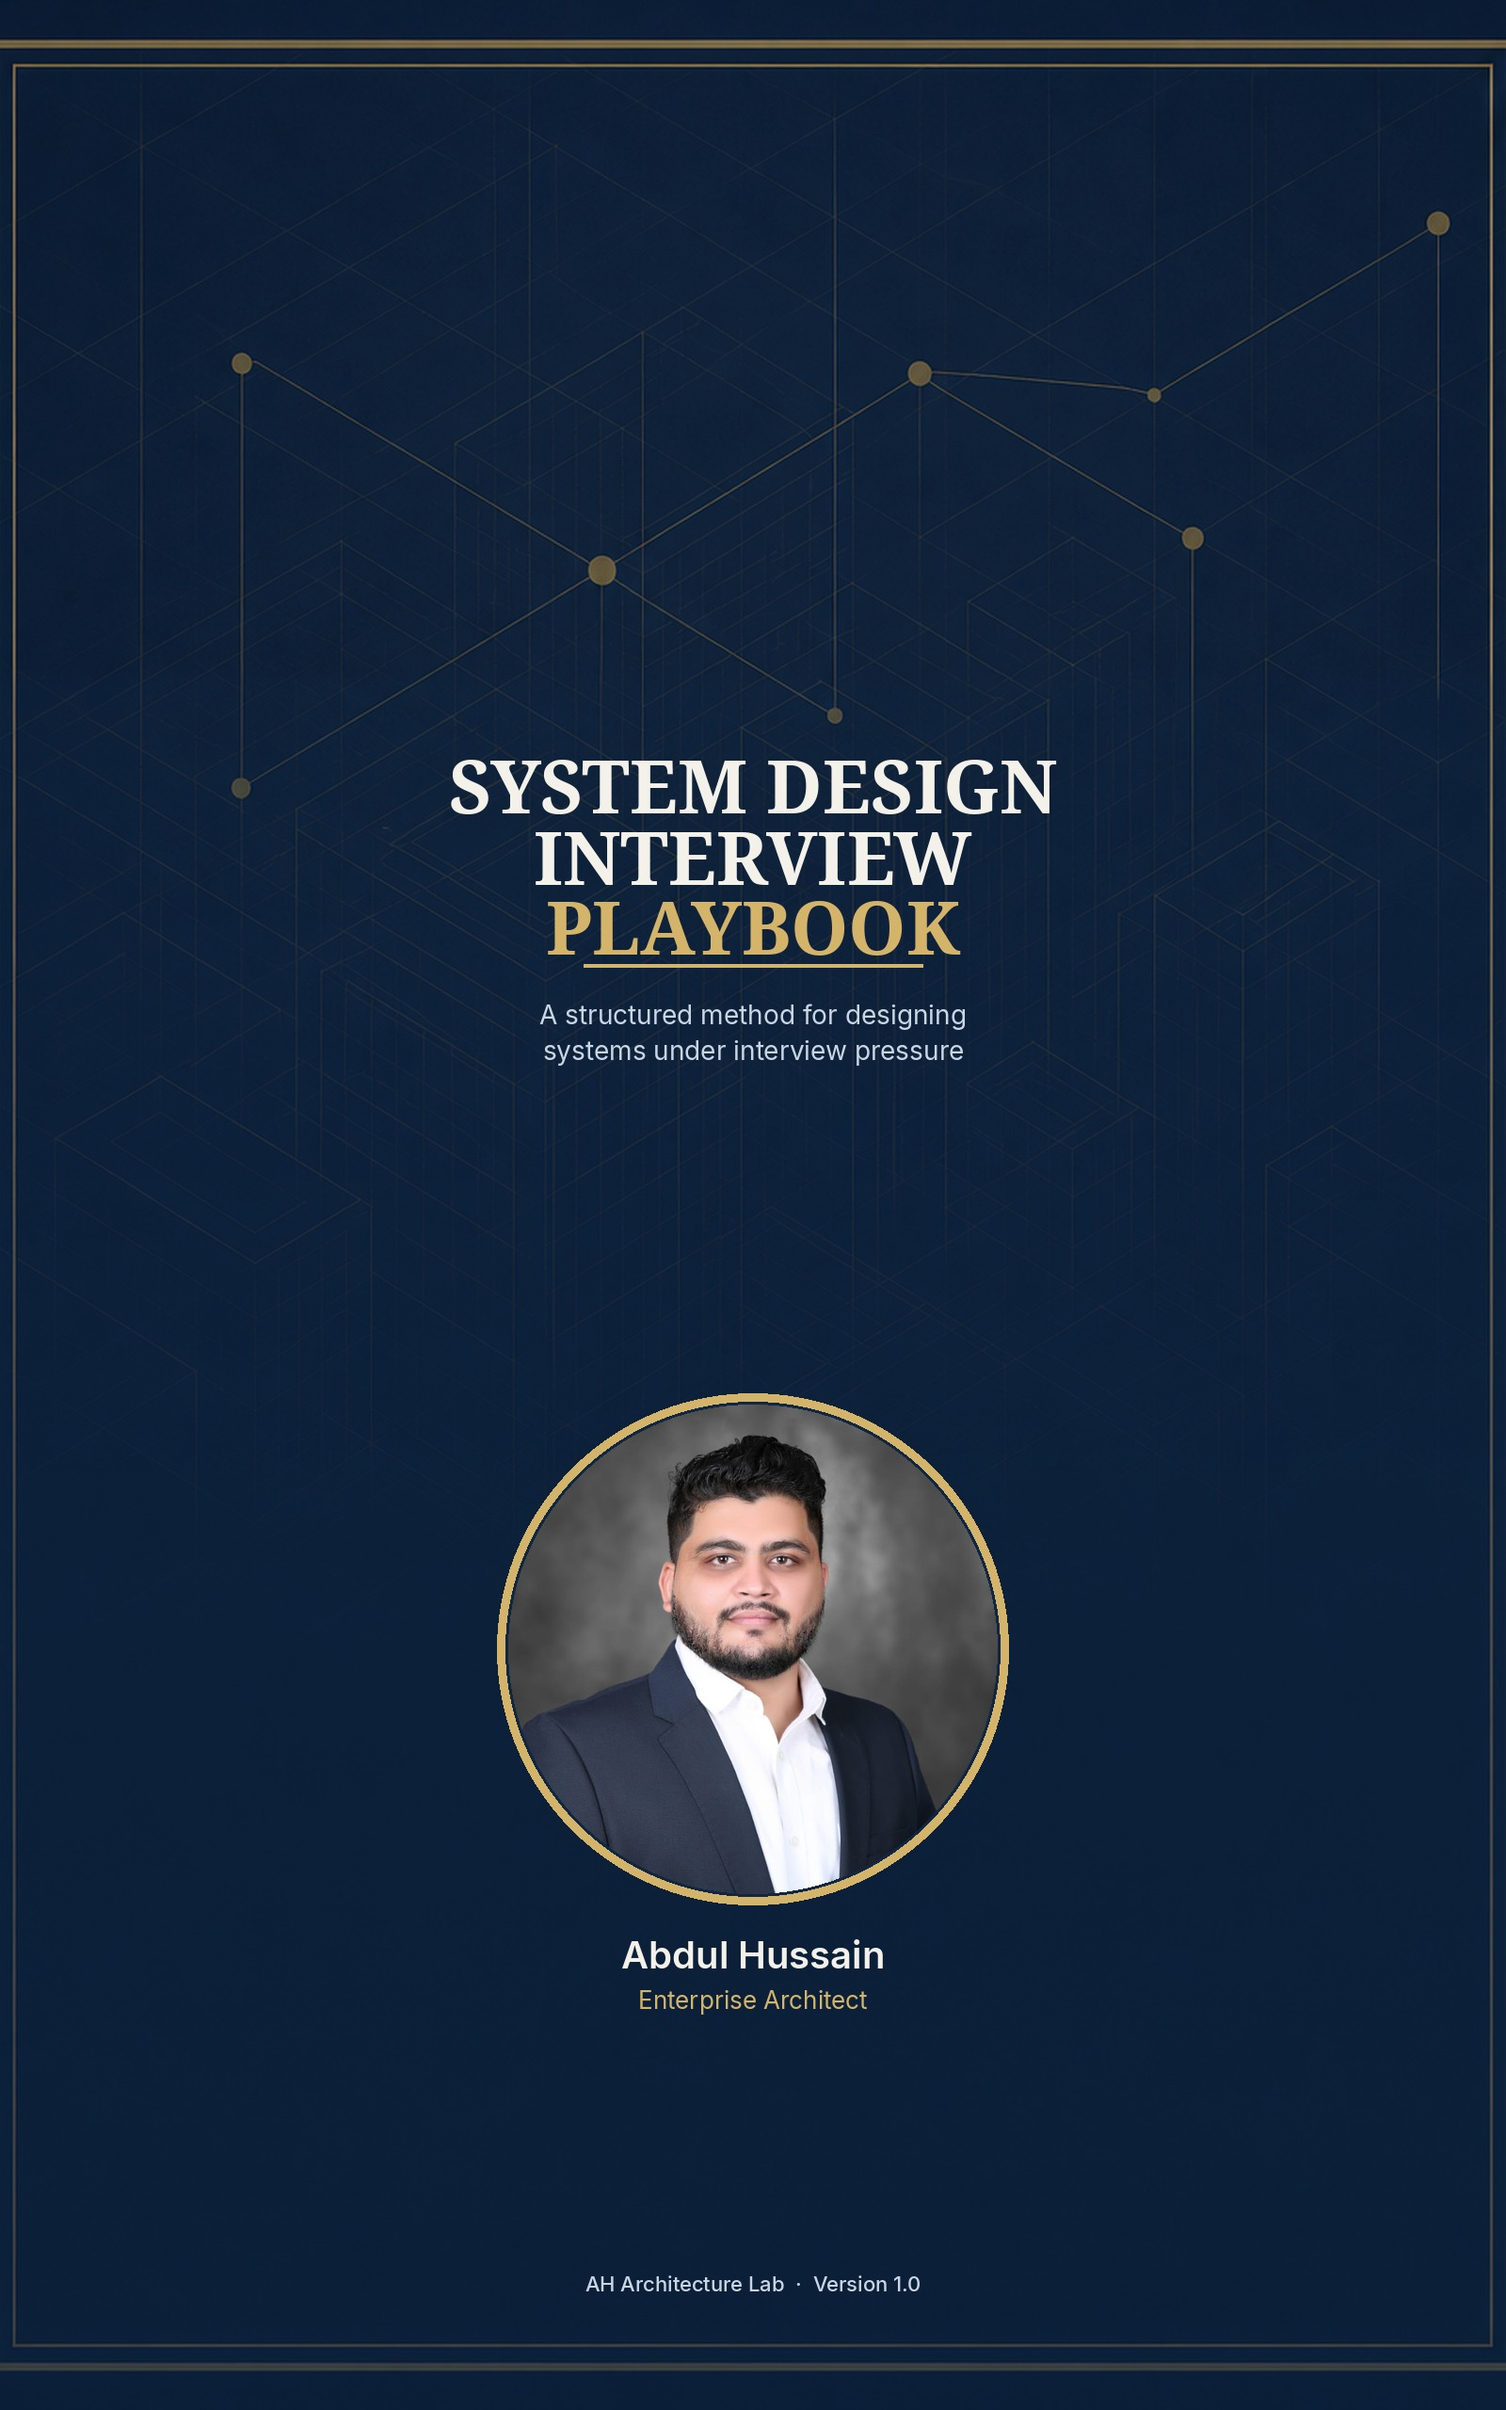
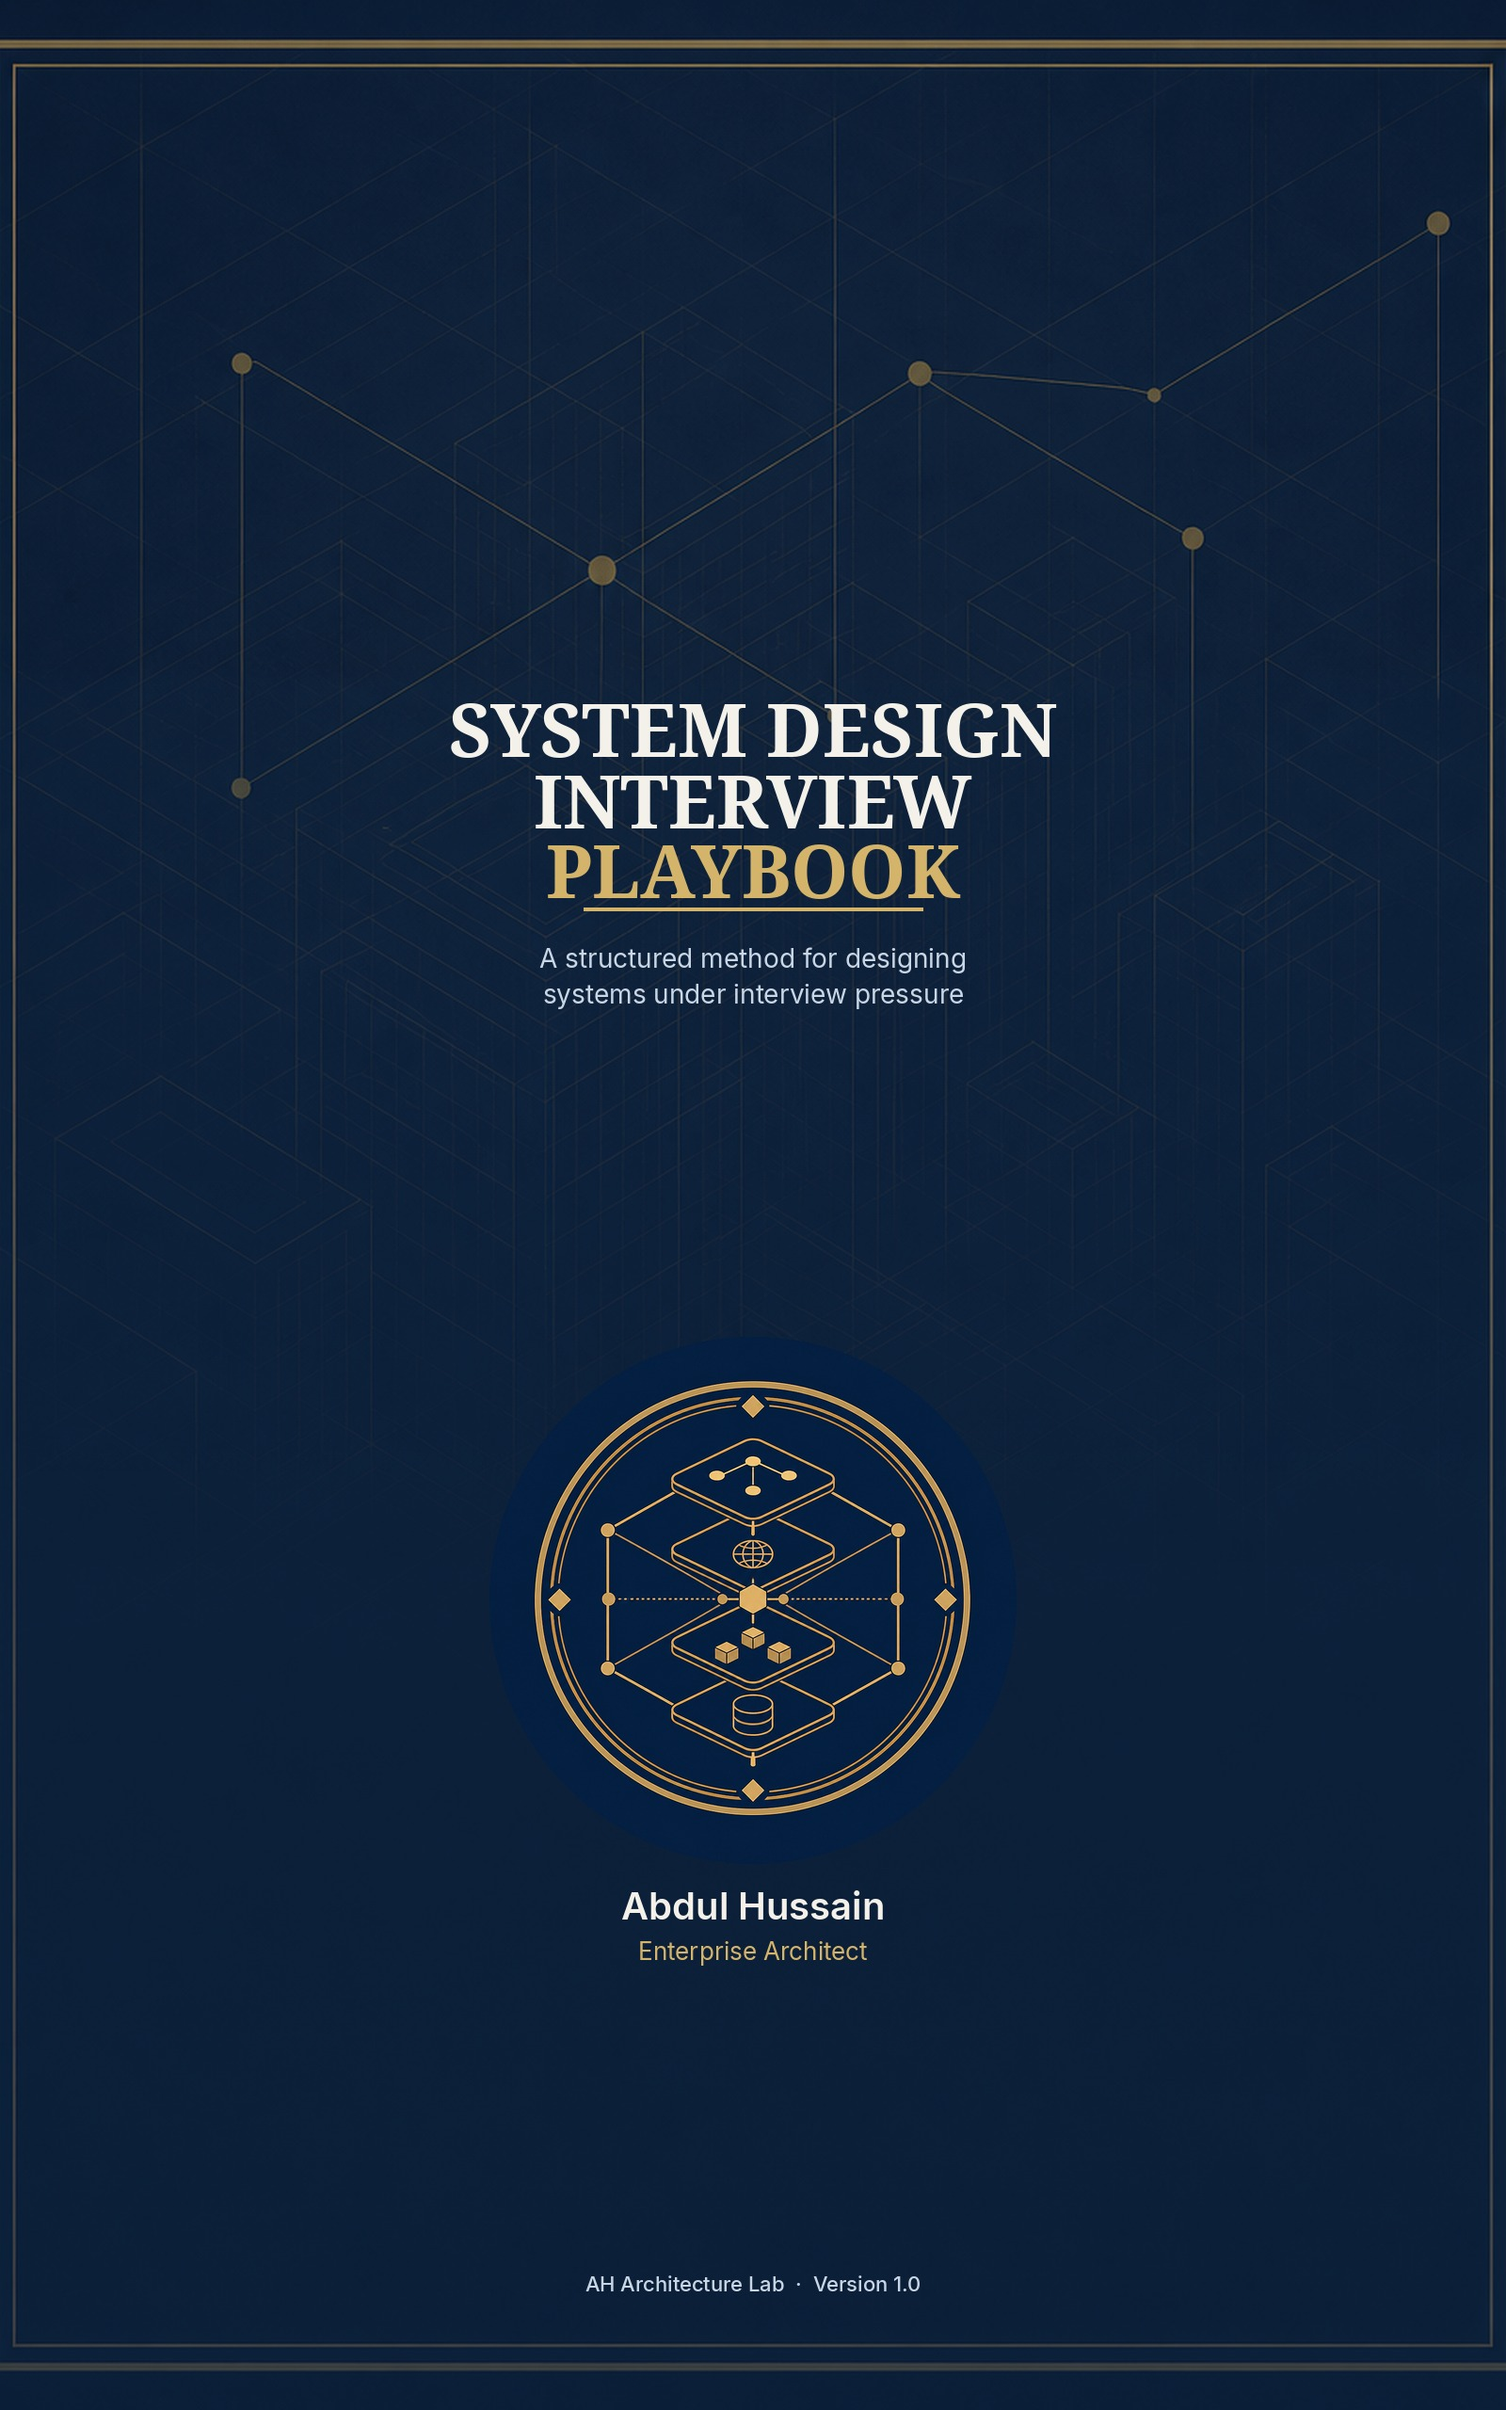
Replace the front-cover portrait with a system-design emblem
Keep the author photo on the back cover. The front now uses a gold-on-navy
architecture seal between the subtitle and the byline.

Changed region(s): [[0.3125, 0.5625, 0.6875, 0.8438], [0.2812, 0.2812, 0.7188, 0.4375]]

diff --git a/System-Design-Interview-Playbook/tools/render_covers.py b/System-Design-Interview-Playbook/tools/render_covers.py
@@ -1,5 +1,8 @@
 #!/usr/bin/env python3
-"""Render KDP-sized front and back covers (1600 x 2560) from motifs + author photo."""
+"""Render KDP-sized front and back covers (1600 x 2560).
+
+Front uses the system-design emblem; back uses the author portrait.
+"""
 
 from __future__ import annotations
 
@@ -10,6 +13,7 @@ from PIL import Image, ImageDraw, ImageFilter, ImageFont
 ROOT = Path(__file__).resolve().parent.parent
 COVER = ROOT / "assets" / "cover"
 AUTHOR = ROOT / "assets" / "author" / "abdul-hussain.jpg"
+LOGO = COVER / "system-design-logo.png"
 
 W, H = 1600, 2560
 NAVY = (15, 39, 68)
@@ -60,6 +64,28 @@ def fit_cover(path: Path) -> Image.Image:
     left = (im.width - W) // 2
     top = (im.height - H) // 2
     return im.crop((left, top, left + W, top + H))
+
+
+def circular_badge(src_path: Path, size: int, ring: int | None = 10) -> Image.Image:
+    src = Image.open(src_path).convert("RGB")
+    side = min(src.size)
+    left = (src.width - side) // 2
+    top = (src.height - side) // 2
+    src = src.crop((left, top, left + side, top + side)).resize((size, size), Image.Resampling.LANCZOS)
+    mask = Image.new("L", (size, size), 0)
+    ImageDraw.Draw(mask).ellipse((0, 0, size - 1, size - 1), fill=255)
+    badge = Image.new("RGBA", (size, size), (0, 0, 0, 0))
+    badge.paste(src, (0, 0), mask)
+    if not ring:
+        return badge
+    outer = size + ring * 2
+    canvas = Image.new("RGBA", (outer, outer), (0, 0, 0, 0))
+    d = ImageDraw.Draw(canvas)
+    d.ellipse((0, 0, outer - 1, outer - 1), fill=GOLD)
+    inner = (ring - 3, ring - 3, outer - ring + 2, outer - ring + 2)
+    d.ellipse(inner, fill=NAVY)
+    canvas.paste(badge, (ring, ring), badge)
+    return canvas
 
 
 def circular_portrait(size: int, ring: int = 10) -> Image.Image:
@@ -125,14 +151,14 @@ def render_front() -> Image.Image:
     base = Image.composite(navy, base, veil.filter(ImageFilter.GaussianBlur(8)))
 
     rgba = base.convert("RGBA")
-    photo = circular_portrait(520, ring=12)
-    px = (W - photo.width) // 2
-    py = 1480
-    rgba.paste(photo, (px, py), photo)
+    logo = circular_badge(LOGO, 560, ring=None)
+    px = (W - logo.width) // 2
+    py = 1420
+    rgba.paste(logo, (px, py), logo)
     img = rgba.convert("RGB")
     draw = ImageDraw.Draw(img)
 
-    y = 780
+    y = 720
     y += draw_centered(draw, "SYSTEM DESIGN", y, font(SERIF, 78), CREAM) + 18
     y += draw_centered(draw, "INTERVIEW", y, font(SERIF, 78), CREAM) + 18
     y += draw_centered(draw, "PLAYBOOK", y, font(SERIF, 78), GOLD) + 36
@@ -145,7 +171,7 @@ def render_front() -> Image.Image:
     ):
         y += draw_centered(draw, line, y, sub, MUTED) + 10
 
-    name_y = py + photo.height + 28
+    name_y = py + logo.height + 20
     draw_centered(draw, "Abdul Hussain", name_y, font(SANS_SEMI, 40), CREAM)
     draw_centered(draw, "Enterprise Architect", name_y + 56, font(SANS, 26), GOLD)
     draw_centered(draw, "AH Architecture Lab  ·  Version 1.0", H - 148, font(SANS_MED, 22), MUTED)
